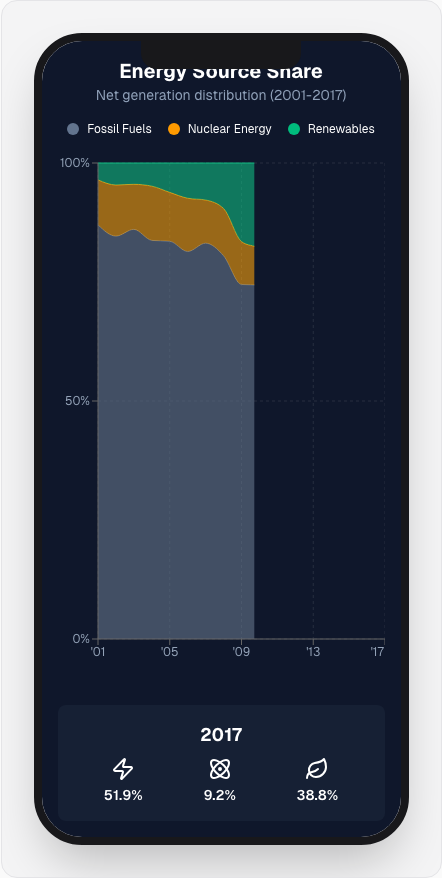
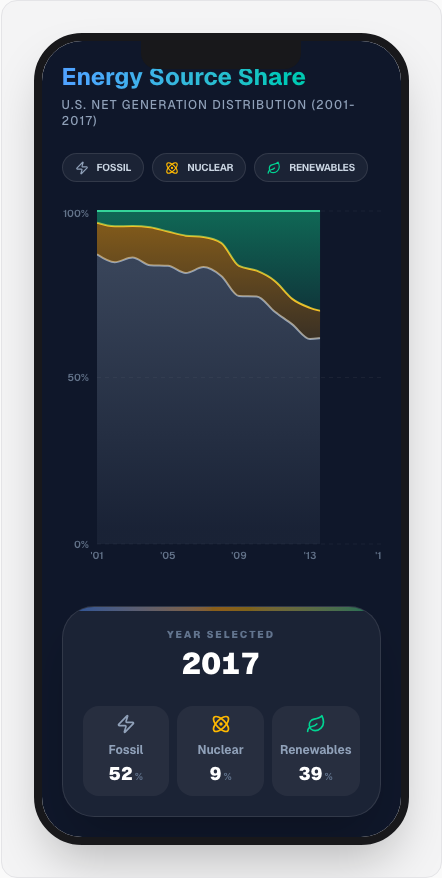
finished vega-altair-04

diff --git a/vega-mobile-projects/vega-altair-04/src/components/Visualization.tsx b/vega-mobile-projects/vega-altair-04/src/components/Visualization.tsx
@@ -19,7 +19,7 @@ interface ProcessedData {
     year: string;
     "Fossil Fuels"?: number;
     "Nuclear Energy"?: number;
-    "Renewables"?: number;
+    Renewables?: number;
   };
 }
 
@@ -27,7 +27,7 @@ interface ChartDataPoint {
   year: string;
   "Fossil Fuels"?: number;
   "Nuclear Energy"?: number;
-  "Renewables"?: number;
+  Renewables?: number;
 }
 
 const processedData = rawData.reduce<ProcessedData>((acc, item) => {
@@ -35,12 +35,12 @@ const processedData = rawData.reduce<ProcessedData>((acc, item) => {
   if (!acc[year]) {
     acc[year] = { year };
   }
-  if (item.source === 'Fossil Fuels') {
-    acc[year]['Fossil Fuels'] = item.net_generation;
-  } else if (item.source === 'Nuclear Energy') {
-    acc[year]['Nuclear Energy'] = item.net_generation;
-  } else if (item.source === 'Renewables') {
-    acc[year]['Renewables'] = item.net_generation;
+  if (item.source === "Fossil Fuels") {
+    acc[year]["Fossil Fuels"] = item.net_generation;
+  } else if (item.source === "Nuclear Energy") {
+    acc[year]["Nuclear Energy"] = item.net_generation;
+  } else if (item.source === "Renewables") {
+    acc[year].Renewables = item.net_generation;
   }
   return acc;
 }, {});
@@ -54,90 +54,143 @@ const sources = [
 ];
 
 export function Visualization() {
-  const [activeYear, setActiveYear] = useState<ChartDataPoint>(chartData[chartData.length - 1]);
+  const [activeYear, setActiveYear] = useState<ChartDataPoint>(
+    chartData[chartData.length - 1],
+  );
 
   return (
-    <div className='w-full h-full bg-slate-900 text-white p-4 flex flex-col font-sans'>
-      <header className='text-center mb-4'>
-        <h1 className='text-xl font-bold'>Energy Source Share</h1>
-        <p className='text-sm text-slate-400'>
-          Net generation distribution (2001-2017)
+    <div className='w-full h-full bg-[#0f172a] text-slate-200 p-5 flex flex-col font-sans overflow-hidden'>
+      <header className='mb-6'>
+        <h1 className='text-2xl font-bold bg-gradient-to-r from-blue-400 to-emerald-400 bg-clip-text text-transparent'>
+          Energy Source Share
+        </h1>
+        <p className='text-xs text-slate-400 font-medium uppercase tracking-widest mt-1'>
+          U.S. Net Generation Distribution (2001-2017)
         </p>
       </header>
 
-      <div className='flex justify-center gap-4 mb-4'>
+      <div className='flex flex-wrap gap-2 mb-6'>
         {sources.map((source) => (
-          <div key={source.name} className='flex items-center gap-2'>
-            <div className={`w-3 h-3 rounded-full ${source.color}`} />
-            <span className='text-xs'>{source.name}</span>
+          <div
+            key={source.name}
+            className='flex items-center gap-2 px-3 py-1.5 rounded-full bg-white/5 border border-white/10 backdrop-blur-md'
+          >
+            <source.icon
+              className={`w-3.5 h-3.5 ${source.name === "Fossil Fuels" ? "text-slate-400" : source.name === "Nuclear Energy" ? "text-amber-400" : "text-emerald-400"}`}
+            />
+            <span className='text-[10px] font-bold uppercase tracking-tight text-slate-300'>
+              {source.name.split(" ")[0]}
+            </span>
           </div>
         ))}
       </div>
 
-      <div className='w-full flex-grow' style={{ aspectRatio: "1/1" }}>
+      <div
+        className='w-full relative flex-grow min-h-[300px]'
+        style={{ aspectRatio: "1/1" }}
+      >
         <ResponsiveContainer width='100%' height='100%'>
           <AreaChart
             data={chartData}
             stackOffset='expand'
-            margin={{ top: 10, right: 0, left: -20, bottom: 20 }}
-            onMouseMove={(e: any) => {
-              if (e && e.activePayload && e.activePayload.length > 0) {
+            margin={{ top: 5, right: 0, left: -25, bottom: 0 }}
+            onMouseMove={(e) => {
+              if (e?.activePayload && e.activePayload.length > 0) {
+                setActiveYear(e.activePayload[0].payload);
+              }
+            }}
+            onTouchMove={(e) => {
+              if (e?.activePayload && e.activePayload.length > 0) {
                 setActiveYear(e.activePayload[0].payload);
               }
             }}
           >
+            <defs>
+              <linearGradient id='colorFossil' x1='0' y1='0' x2='0' y2='1'>
+                <stop offset='5%' stopColor='#64748b' stopOpacity={0.8} />
+                <stop offset='95%' stopColor='#64748b' stopOpacity={0.2} />
+              </linearGradient>
+              <linearGradient id='colorNuclear' x1='0' y1='0' x2='0' y2='1'>
+                <stop offset='5%' stopColor='#f59e0b' stopOpacity={0.8} />
+                <stop offset='95%' stopColor='#f59e0b' stopOpacity={0.2} />
+              </linearGradient>
+              <linearGradient id='colorRenewable' x1='0' y1='0' x2='0' y2='1'>
+                <stop offset='5%' stopColor='#10b981' stopOpacity={0.8} />
+                <stop offset='95%' stopColor='#10b981' stopOpacity={0.2} />
+              </linearGradient>
+            </defs>
             <CartesianGrid
-              strokeDasharray='3 3'
-              stroke='rgba(255,255,255,0.1)'
+              vertical={false}
+              strokeDasharray='4 4'
+              stroke='rgba(255,255,255,0.05)'
             />
             <XAxis
               dataKey='year'
-              tick={{ fontSize: 12, fill: "#94a3b8" }}
+              axisLine={false}
+              tickLine={false}
+              tick={{ fontSize: 10, fill: "#64748b", fontWeight: 600 }}
               tickFormatter={(tick) => `'${tick.substring(2)}`}
-              ticks={['2001', '2005', '2009', '2013', '2017']}
+              ticks={["2001", "2005", "2009", "2013", "2017"]}
+              interval={0}
             />
             <YAxis
+              axisLine={false}
+              tickLine={false}
               tickFormatter={(tick) => `${Math.round(tick * 100)}%`}
-              tick={{ fontSize: 12, fill: "#94a3b8" }}
+              tick={{ fontSize: 10, fill: "#64748b", fontWeight: 600 }}
               ticks={[0, 0.5, 1]}
             />
-            <Tooltip />
+            <Tooltip
+              content={<CustomTooltip />}
+              cursor={{ stroke: "rgba(255,255,255,0.2)", strokeWidth: 1 }}
+            />
             <Area
               type='monotone'
               dataKey='Fossil Fuels'
               stackId='1'
-              stroke='#64748b'
-              fill='#64748b'
+              stroke='#94a3b8'
+              strokeWidth={2}
+              fill='url(#colorFossil)'
+              animationDuration={1000}
             />
             <Area
               type='monotone'
               dataKey='Nuclear Energy'
               stackId='1'
-              stroke='#f59e0b'
-              fill='#f59e0b'
+              stroke='#fbbf24'
+              strokeWidth={2}
+              fill='url(#colorNuclear)'
+              animationDuration={1000}
             />
             <Area
               type='monotone'
               dataKey='Renewables'
               stackId='1'
-              stroke='#10b981'
-              fill='#10b981'
+              stroke='#34d399'
+              strokeWidth={2}
+              fill='url(#colorRenewable)'
+              animationDuration={1000}
             />
           </AreaChart>
         </ResponsiveContainer>
       </div>
 
-      <div className='mt-4 p-4 rounded-lg bg-slate-800/50 backdrop-blur-md'>
+      <div className='mt-8 p-5 rounded-[2rem] bg-white/5 border border-white/10 backdrop-blur-xl shadow-2xl relative overflow-hidden'>
+        <div className='absolute top-0 left-0 w-full h-1 bg-gradient-to-r from-blue-500/50 via-amber-500/50 to-emerald-500/50' />
         <motion.div
           key={activeYear.year}
-          initial={{ opacity: 0, y: 10 }}
-          animate={{ opacity: 1, y: 0 }}
-          transition={{ duration: 0.3 }}
+          initial={{ opacity: 0, scale: 0.95 }}
+          animate={{ opacity: 1, scale: 1 }}
+          transition={{ duration: 0.2 }}
+          className='flex flex-col items-center'
         >
-          <p className='text-lg font-bold text-center mb-2'>
+          <span className='text-[10px] font-black uppercase tracking-[0.2em] text-slate-500 mb-1'>
+            Year Selected
+          </span>
+          <p className='text-3xl font-black text-white mb-6 tabular-nums'>
             {activeYear.year}
           </p>
-          <div className='flex justify-around text-center'>
+          <div className='flex justify-between w-full gap-2'>
             {sources.map((source) => {
               const total = Object.values(activeYear).reduce(
                 (acc: number, value) => {
@@ -149,12 +202,25 @@ export function Visualization() {
                 0,
               );
               const percentage =
-                ((activeYear[source.name as keyof ChartDataPoint] as number) / total) * 100;
+                ((activeYear[source.name as keyof ChartDataPoint] as number) /
+                  total) *
+                100;
               return (
-                <div key={source.name}>
-                  <source.icon className='w-6 h-6 mx-auto mb-1' />
-                  <p className='text-sm font-semibold'>
-                    {percentage.toFixed(1)}%
+                <div
+                  key={source.name}
+                  className='flex-1 flex flex-col items-center p-2 rounded-2xl bg-white/5'
+                >
+                  <source.icon
+                    className={`w-5 h-5 mb-2 ${source.name === "Fossil Fuels" ? "text-slate-400" : source.name === "Nuclear Energy" ? "text-amber-400" : "text-emerald-400"}`}
+                  />
+                  <p className='text-xs font-bold text-slate-400 mb-0.5'>
+                    {source.name.split(" ")[0]}
+                  </p>
+                  <p className='text-lg font-black text-white tabular-nums'>
+                    {percentage.toFixed(0)}
+                    <span className='text-[10px] ml-0.5 font-bold text-slate-500'>
+                      %
+                    </span>
                   </p>
                 </div>
               );
@@ -168,7 +234,7 @@ export function Visualization() {
 
 interface CustomTooltipProps {
   active?: boolean;
-  payload?: any[];
+  payload?: Array<{ payload: ChartDataPoint }>;
 }
 
 const CustomTooltip = ({ active, payload }: CustomTooltipProps) => {
